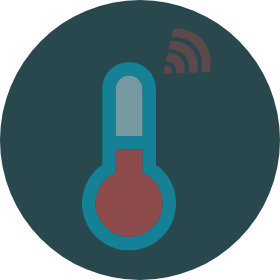
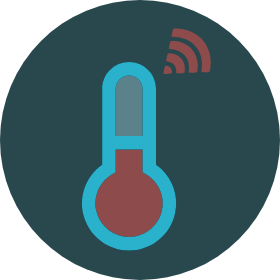
アイコンのデザインを変更

Changed region(s): [[0.2857, 0.2, 0.6286, 0.9143], [0.5714, 0.0857, 0.7714, 0.2857]]

diff --git a/src/Layout.tsx b/src/Layout.tsx
@@ -3,10 +3,10 @@ import React, { ReactNode } from 'react';
 // 画像
 import bg from './resource/img/bg3.png';
 import pattern from './resource/img/pattern.png'
-import logo from './resource/img/icon.png';
+import logo from './resource/img/icon3.png';
 
 // arwes
-import { Arwes, Header, Heading, Footer, Row, Col, Words, Loading } from 'arwes';
+import { Arwes, Header, Heading, Footer, Row, Col, Words, Loading, Image } from 'arwes';
 import { Anim } from './data/model/Anim';
 
 // material-ui
@@ -38,7 +38,7 @@ const Layout: React.FC<IProps> = (props: IProps) => {
                         <Header animate show={anim.entered}>
                             <Row style={{ marginTop: 10, marginBottom: 10 }}>
                                 <Col style={{ height: 42 }}>
-                                    <img src={logo} alt="logo" style={{ width: 42, height: 42 }} />
+                                    <Image animate show={anim.entered} resources={logo} style={{ width: 42, height: 42 }} />
                                 </Col>
                                 <Col style={{ padding: 0 }}>
                                     <Heading node='h1' style={{ margin: 0 }}>
